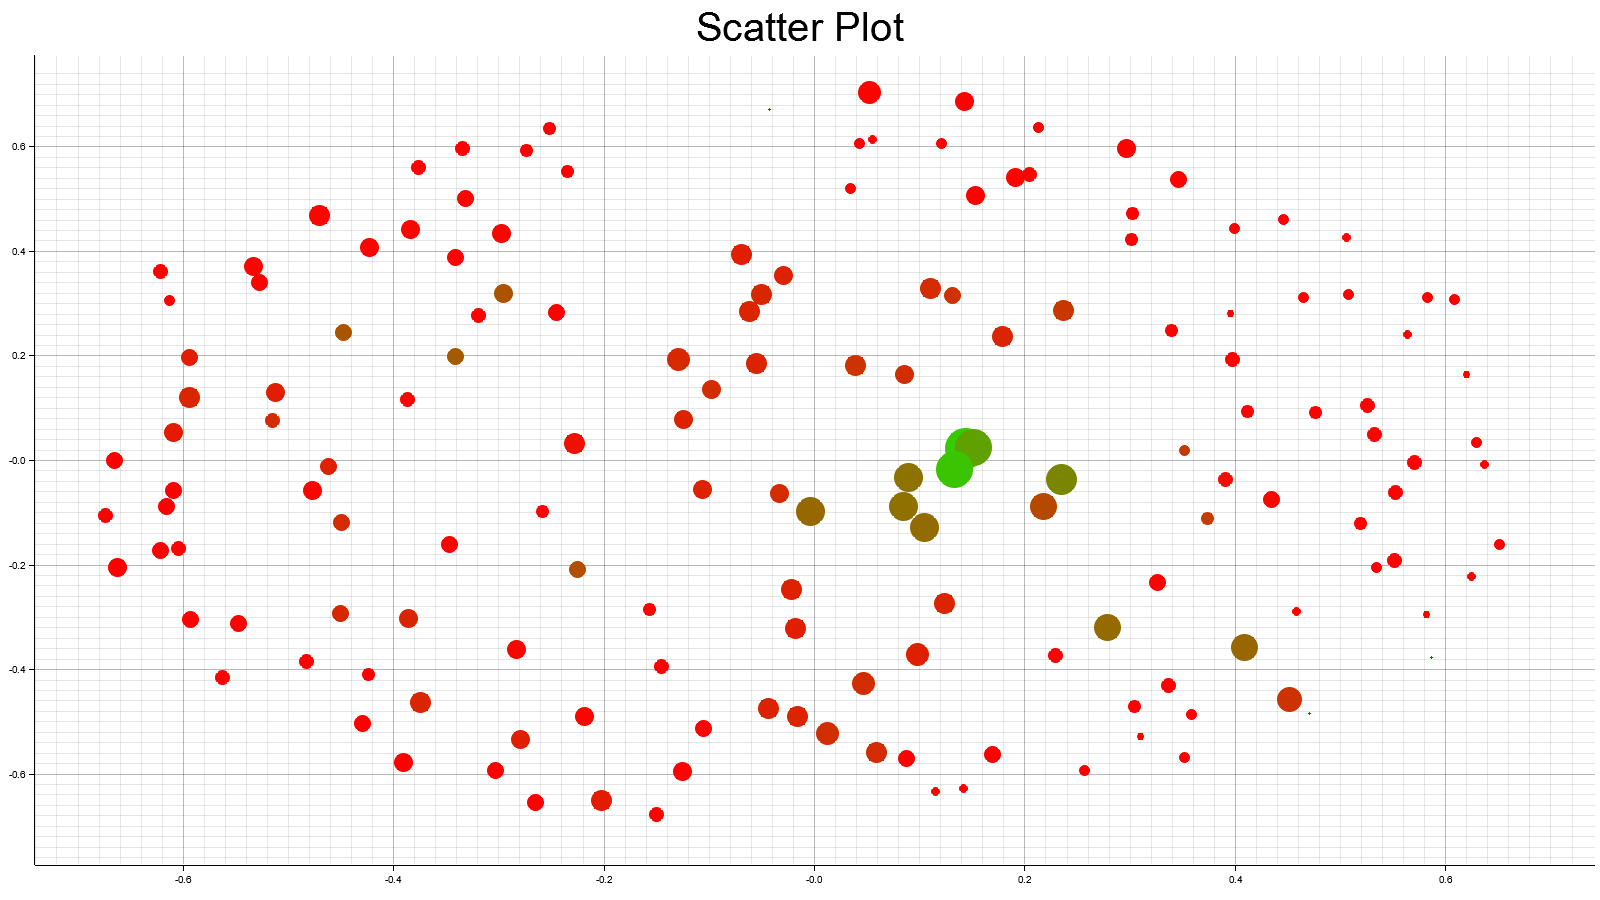
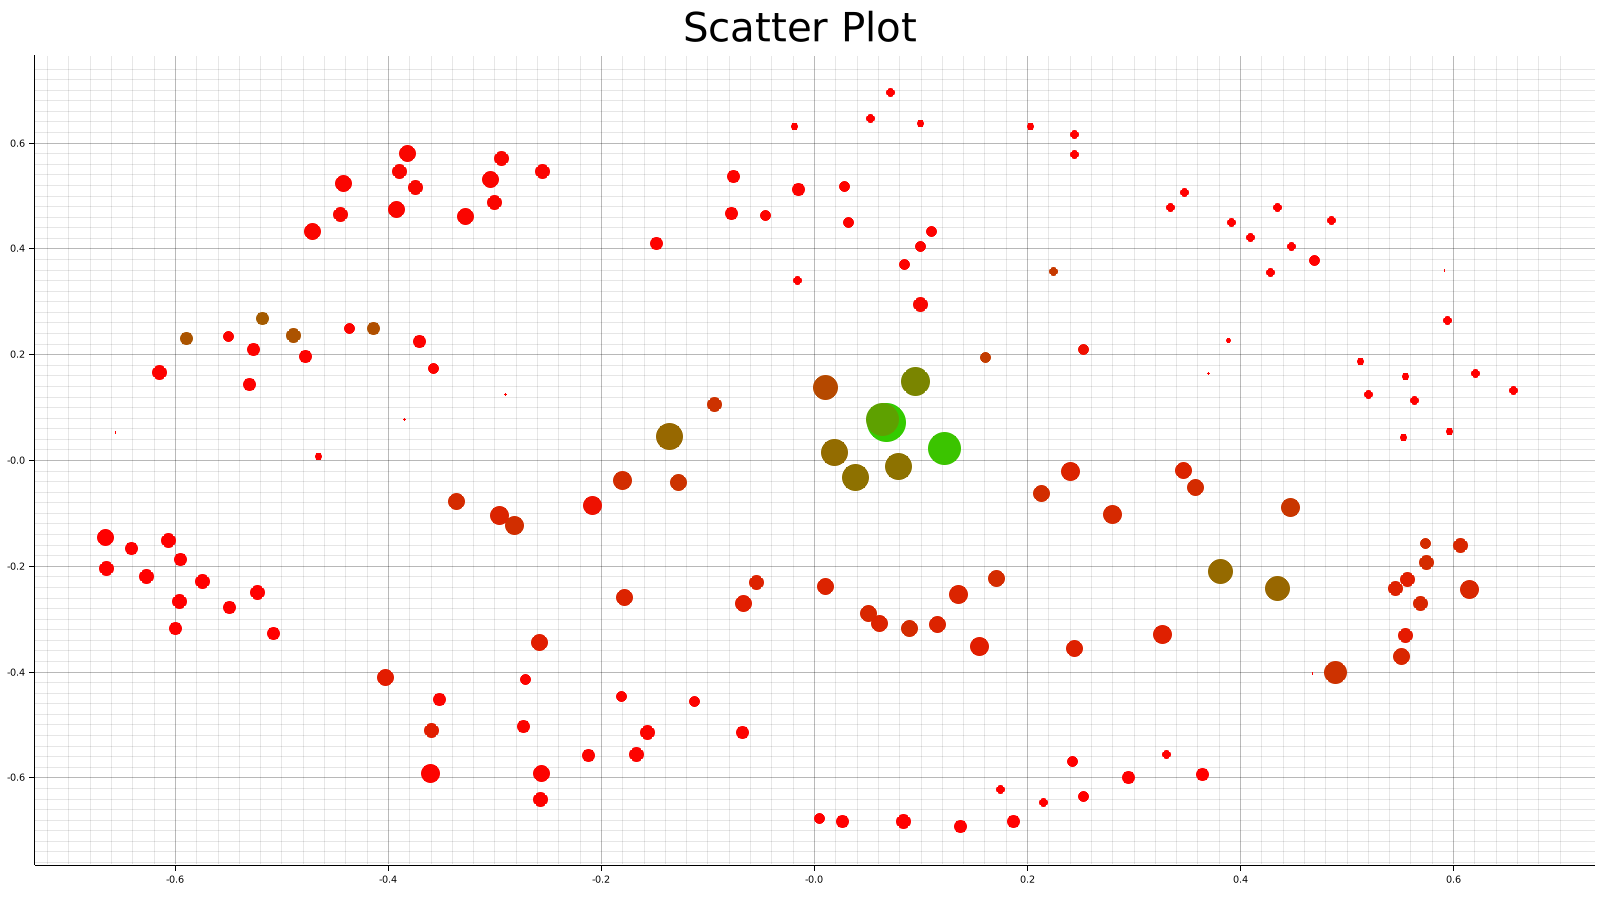
Non-deterministic behaviour fixed

Changed region(s): [[0.0, 0.0, 1.0, 0.9644]]

diff --git a/src-tauri/src/application_manager.rs b/src-tauri/src/application_manager.rs
@@ -7,7 +7,6 @@ use plotters::style::{WHITE, RED, IntoFont, ShapeStyle, Color};
 
 use crate::common::identifier_mapper::IdentifierMapper;
 use crate::metrics::datapoint::DataPoint;
-use crate::post_analysis::datapoints_creator::DataPointsCreator;
 use crate::post_analysis::multidim_scaling::MultiDimScaling;
 use crate::{io::{tensor_reader::TensorReader, translator::Translator, pattern_reader::PatternReader}, dag::{dag_creator::DagCreator}, metrics::{metrics::Metrics, metric::Metric}, tensor::tensor::Tensor};
 
@@ -32,6 +31,38 @@ impl ApplicationManager{
             identifier_mapper: Default::default(),
             metrics: Default::default(),
         };
+    }
+
+    fn acquireInformation(&mut self){
+        self.translator = Translator::new(&self.tensor_path);
+        let tensor_reader = TensorReader::new(
+            &self.tensor_path,
+            &self.translator);
+        self.tensor = tensor_reader.read();
+
+        let pattern_reader = PatternReader::new(
+            &self.patterns_path,
+            &self.translator);
+        let patterns = pattern_reader.read();
+
+        self.identifier_mapper = IdentifierMapper::new(patterns);
+    }
+
+    fn createModel(&mut self){
+        let dag_creator = DagCreator::new(&self.identifier_mapper);
+        let dag = dag_creator.create();
+        self.identifier_mapper.insertDagNodeRepresentations(
+            dag.extractNodes()
+        );
+    }
+
+    fn analyseModel(&mut self){
+        self.metrics = Metrics::new(&self.identifier_mapper, &self.tensor);
+        
+        let coords = MultiDimScaling::fitTransform(&self.metrics.distances, &self.identifier_mapper);
+
+        let data_point_representations = DataPoint::createDataPoints(&self.identifier_mapper, &coords);
+        self.identifier_mapper.insertDataPointRepresentations(data_point_representations);
     }
 
     fn testPlot(&self){
@@ -68,9 +99,13 @@ impl ApplicationManager{
 
         chart.configure_mesh().draw().unwrap();
 
-        for identifier_representation in self.identifier_mapper.getRepresentations(){
+        // Enforcing that overlapping points are drawn in the correct order
+        let mut representations = self.identifier_mapper.getRepresentations();
+        representations.sort_by(|a, b| 
+            b.asDataPoint().size.partial_cmp(&a.asDataPoint().size).unwrap()); 
+            
+        for identifier_representation in representations{
             let datapoint = identifier_representation.asDataPoint();
-            // dbg!(&datapoint.stroke_width);
             chart.draw_series(
                 std::iter::once(Circle::new((
                     datapoint.x, 
@@ -89,38 +124,6 @@ impl ApplicationManager{
         println!("PLOTTED TEST GRAPH");
     }
 
-    fn acquireInformation(&mut self){
-        self.translator = Translator::new(&self.tensor_path);
-        let tensor_reader = TensorReader::new(
-            &self.tensor_path,
-            &self.translator);
-        self.tensor = tensor_reader.read();
-
-        let pattern_reader = PatternReader::new(
-            &self.patterns_path,
-            &self.translator);
-        let patterns = pattern_reader.read();
-
-        self.identifier_mapper = IdentifierMapper::new(patterns);
-    }
-
-    fn createModel(&mut self){
-        let dag_creator = DagCreator::new(&self.identifier_mapper);
-        let dag = dag_creator.create();
-        self.identifier_mapper.insertDagNodeRepresentations(
-            dag.extractNodes()
-        );
-    }
-
-    fn analyseModel(&mut self){
-        self.metrics = Metrics::new(&self.identifier_mapper, &self.tensor);
-        
-        let coords = MultiDimScaling::fitTransform(&self.metrics.distances, &self.identifier_mapper);
-
-        let data_point_representations = DataPointsCreator::create(&self.identifier_mapper, &coords);
-        self.identifier_mapper.insertDataPointRepresentations(data_point_representations);
-    }
-
     pub fn initialize(&mut self){
         let start_time = Instant::now();
         
@@ -135,13 +138,15 @@ impl ApplicationManager{
         println!("Total time taken: {:?}", duration);
     }
 
-    // pub fn getFlattenedSupers(&self) -> HashMap<u32, Vec<u32>>{
-    //     return self.dag.getFlattenedSupers().clone();
-    // }
+    pub fn getFlattenedSupers(&self) -> HashMap<u32, Vec<u32>>{
+        // return self.dag.getFlattenedSupers().clone();
+        todo!()
+    }
 
-    // pub fn getFlattenedSubs(&self) -> HashMap<u32, Vec<u32>>{
-    //     return self.dag.getFlattenedSubs().clone();
-    // }
+    pub fn getFlattenedSubs(&self) -> HashMap<u32, Vec<u32>>{
+        // return self.dag.getFlattenedSubs().clone();
+        todo!()
+    }
 
     pub fn getDistances(&self) -> HashMap<u32, HashMap<u32, f64>>{
         return self.metrics.distances.get().clone();

diff --git a/src-tauri/src/metrics/datapoint.rs b/src-tauri/src/metrics/datapoint.rs
@@ -1,4 +1,8 @@
+use std::collections::HashMap;
+
 use plotters::style::RGBColor;
+
+use crate::{common::identifier_mapper::IdentifierMapper, subtensor::pattern::Pattern};
 
 #[derive(Debug, Clone)]
 pub struct DataPoint {
@@ -15,7 +19,63 @@ impl DataPoint {
         return DataPoint { identifier: *identifier, x: *x, y: *y , size: *size, stroke_width:*stroke_width, color: *color};
     }
 
-    pub fn toTuple() -> (f32, f32) {
-        todo!()
+    fn normalizeSize(size: &u32, min_size: &u32) -> f32 {
+        return 2.0 * (*size as f32 / *min_size as f32).ln();
     }
+
+    fn calculateStrokeWidth(normalized_max_size: &f32, normalized_size: &f32) -> u32 {
+        // let x = normalized_size / normalized_max_size;
+        // let interval = 4.0;
+        // let mut stroke_width = interval * (x.powi(2));
+
+        
+        // if stroke_width <= interval * 0.25 {
+        //     stroke_width = interval * 0.5;
+        // }
+
+        // dbg!(&(stroke_width as u32));
+        // return stroke_width as u32;
+        return 2;
+    }
+
+    fn densityToColor(density: &f64) -> RGBColor {
+        let r = (density * 255.0) as u8;
+        let g = 255 - r;
+        let b = 0;
+        return RGBColor(r, g, b);
+    }
+
+    pub fn createDataPoints(identifier_mapper: &IdentifierMapper, coords: &HashMap<u32, (f64, f64)>) -> HashMap<u32, DataPoint> {
+        let pattern_representations: Vec<&Pattern> = identifier_mapper.getRepresentations().iter()
+            .map(|r| r.asPattern())
+            .collect();
+
+        let mut descending_sizes: Vec<&Pattern> = pattern_representations.iter().cloned().collect();
+        descending_sizes.sort_by_key(|p| p.identifier);
+        let min_size = descending_sizes.get(descending_sizes.len() - 1).unwrap().size;
+
+        let max_size = descending_sizes.get(0).unwrap().size;
+        let max_size = DataPoint::normalizeSize(&max_size, &min_size);
+
+
+        let mut datapoints: HashMap<u32, DataPoint> = HashMap::new();
+        for pattern in pattern_representations {
+            let coord = coords.get(&pattern.identifier).unwrap();
+            let size = DataPoint::normalizeSize(&pattern.size, &min_size);
+            let stroke_width = DataPoint::calculateStrokeWidth(&max_size, &size);
+            
+            let datapoint = DataPoint::new(
+                &pattern.identifier,
+                &size,
+                &stroke_width,
+                &DataPoint::densityToColor(&pattern.density),
+                &(coord.0 as f32),
+                &(coord.1 as f32)
+                );
+            datapoints.insert(pattern.identifier, datapoint);
+        }
+
+        return datapoints;
+    }
+
 }

diff --git a/src-tauri/src/post_analysis/multidim_scaling.rs b/src-tauri/src/post_analysis/multidim_scaling.rs
@@ -44,6 +44,7 @@ impl MultiDimScaling{
             let kwargs = PyDict::new(py);
             kwargs.set_item("dissimilarity", "precomputed").unwrap();
             kwargs.set_item("normalized_stress", false).unwrap();
+            kwargs.set_item("random_state", 1).unwrap();
             kwargs.set_item("n_components", 2).unwrap();
             let mds = sklearn.getattr("MDS").unwrap()
                 .call((), Some(kwargs))

diff --git a/src-tauri/build.rs b/src-tauri/build.rs
@@ -1,3 +1,9 @@
 fn main() {
+  #[cfg(target_os="linux")]{
+    println!("cargo:rustc-link-lib=python3.10"); 
+    // apt install python3.10-dev
+    // export PYO3_PYTHON="/usr/bin/python3.10"
+    // export LD_LIBRARY_PATH=/usr/lib/python3.10/config-3.10-x86_64-linux-gnu
+  }
   tauri_build::build()
 }

diff --git a/src-tauri/src/post_analysis/mod.rs b/src-tauri/src/post_analysis/mod.rs
@@ -1,2 +1,1 @@
 pub mod multidim_scaling;
-pub mod datapoints_creator;
